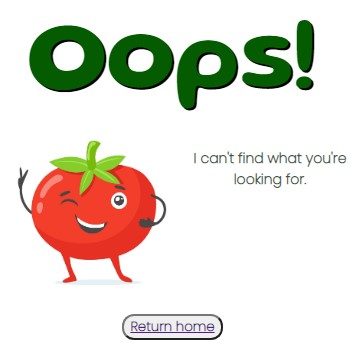
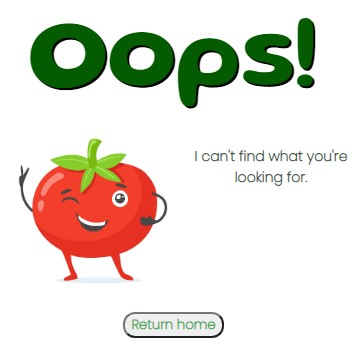
general tidy up and spell check

diff --git a/docs/README.md b/docs/README.md
@@ -18,13 +18,13 @@ You can view the live site [here](https://tanyaelizabeth13.github.io/Milestonepr
 * Typography
 * Imagery
 * Design differences
-3. [Features](#4-features)
+3. [Features](#3-features)
 * Existing
 * Future
-4. [Technologies used](#5-technologies-used)
-5. [Testing](#6-testing)
-6. [Deployment](#7-deployment)
-7. [Credits](#8-credits)
+4. [Technologies used](#4-technologies-used)
+5. [Testing](#5-testing)
+6. [Deployment](#6-deployment)
+7. [Credits](#7-credits)
 
 ---
 ### 1 UX
@@ -89,15 +89,15 @@ The footer of the page will just contain the copyright information.
 
 ![colourscheme](../docs/imgs/colours.jpg)
 
-41AC3C (Green pantone) is used for the backs of the cards in the game section. It is also used for the button text both on the custom 404 page. 
+41AC3C (Green pantone) is used for the backs of the cards in the game section. It is also used for the button text on the custom 404 page. 
 
 055C00 (Lincoln green) is used for the main header of the page. 
 
 296415(Dark green) is used for the subheading. 
 
-465438 (Rifle green) is used to contrast the brighter greens. It is used for text throughout the project. 
+465438 (Rifle green) is used to contrast the truer greens. It is used for text throughout the project. 
 
-Black is used to make certain point on the page stand out, the 'lives left' text and 'click me' button are important information that users need to see clearly. 
+Black is used to make certain points on the page stand out, the 'lives left' text and 'click me' button are important information that users need to see clearly. 
 
 White space is used on the page to give a clean look to the game and make sure the rest of the colour scheme looks more vibrant. 
 
@@ -125,11 +125,11 @@ Poppins is used for paragraph text throughout the site. It is an easy-to-read fo
 
 #### Imagery 
 
-**Character - The Veg Heads!**
+**Characters - The Veg Heads!**
 
 ![mascotveg](../docs/imgs/veg.jpg)
 
-The Veg Heads! are fictional character based on this free image found on freepik. The image was separated into the individual characters for use in the match game.
+The Veg Heads! are fictional characters based on this free image found on freepik. The image was separated into the individual characters for use in the match game.
 
 **Mascot - Tommy Tomato**
 
@@ -149,7 +149,7 @@ The matches for the character cards are their names, these where made in gitpod 
 
 ![vegbackground](../assets/images/veg-background.jpg)
 
-The game board background is a hand drawn vegetable free background from vecteezy. It is muted enough on colour as to not make the game area hard to see. 
+The game board background is a hand drawn vegetable background from vecteezy. It is muted enough in colour as to not make the game area hard to see. 
 
 **Favicon**
 
@@ -181,7 +181,7 @@ Header
 
 ![header](../docs/imgs/header.jpg)
 
-The header contains both the Veg Heads! logo and the name of the game. It also introduces the game mascot and what the purpose of the game is. Within this introduction is the users name that is generated in the greeting via .innerHTML. If the user does not want to put in a name it is left blank button the intro continues to makes sense. 
+The header contains both the Veg Heads! logo and the name of the game. It also introduces the game mascot and what the purpose of the game is. Within this introduction is the users name that is generated in the greeting via .innerHTML. If the user does not want to put in a name it is left blank but the intro text continues to makes sense. 
 
 >As a first time user of the game, I want to easily understand the aims of the game. 
 
@@ -212,7 +212,7 @@ Lose alert
 
 ![losealert](../docs/imgs/losealert.jpg)
 
-If the use losses the game, an alert pops up to tell them to try again. Again, on the user pressing the ok button the alert closes and the newGame variable starts the game again. 
+If the user losses the game, an alert pops up to tell them to try again. As before, on the user pressing the ok button the alert closes and the newGame variable starts the game again. 
 
 >As a returning user of the game, I want to be able to start the game again.
 
@@ -220,7 +220,7 @@ Randomise
 
 ![randomise](../docs/imgs/randomise.jpg)
 
-When the game restarts the randomize function makes sure that the cards are different every round so the user is not playing the same game again.
+When the game restarts the 'randomize' function makes sure that the cards are different every round so the user is not playing the same game again.
 
 >As a returning user of the game, I want the matches to reshuffle so I am not playing the same cards again.
 
@@ -243,7 +243,7 @@ Footer
 
 ![footer](../docs/imgs/footer.jpg)
 
-The footer contains the fictional copyright of the Veg Heads! to as there would be on a real-world site.
+The footer contains the fictional copyright of the Veg Heads! as there would be on a real-world site.
 
 Custom 404 page 
 
@@ -255,7 +255,7 @@ The 404 page is very simple and contains the mascot prompting the user to return
 
 Some possible future features for this project include:
 
-- Tie ins with other Veg Head! branded content for example video content, competitions, and other games based around the same group.
+- Tie ins with other Veg Heads! branded content for example video content, competitions, and other games based around the same group.
 
 - Links to Veg Heads! social media and shopping sites. 
 
@@ -308,6 +308,8 @@ JSLint - The analysis tool used to check JS for errors.
 
 Technsini – The mockup generator site used to create mockup images in README.md.
 
+Canva - The site used to make image collages for the read me. 
+
 Microsoft Word - The software used to write README.md, mainly used for spell check purposes.
 
 Microsoft Excel - The software used to make the testing spreadsheet.
@@ -319,7 +321,7 @@ Microsoft Excel - The software used to make the testing spreadsheet.
 >As a first time user of the game, I want to be able to play the game bug free.  
 >As a first time user of the game, I want to be able to play the game on whatever screen size I may be on. 
 
-Testing completed for this project covers the areas of: responsivity, features, accessibility, performance, and validator testing. Tests where completed regularly at every stage of development and then at the final stage before submitting. 
+Testing completed for this project covered the areas of: responsivity, features, accessibility, performance, and validator testing. Tests where completed regularly at every stage of development and then at the final stage before submitting. 
 
 <details>
 <summary>Full testing spreadsheet</summary>
